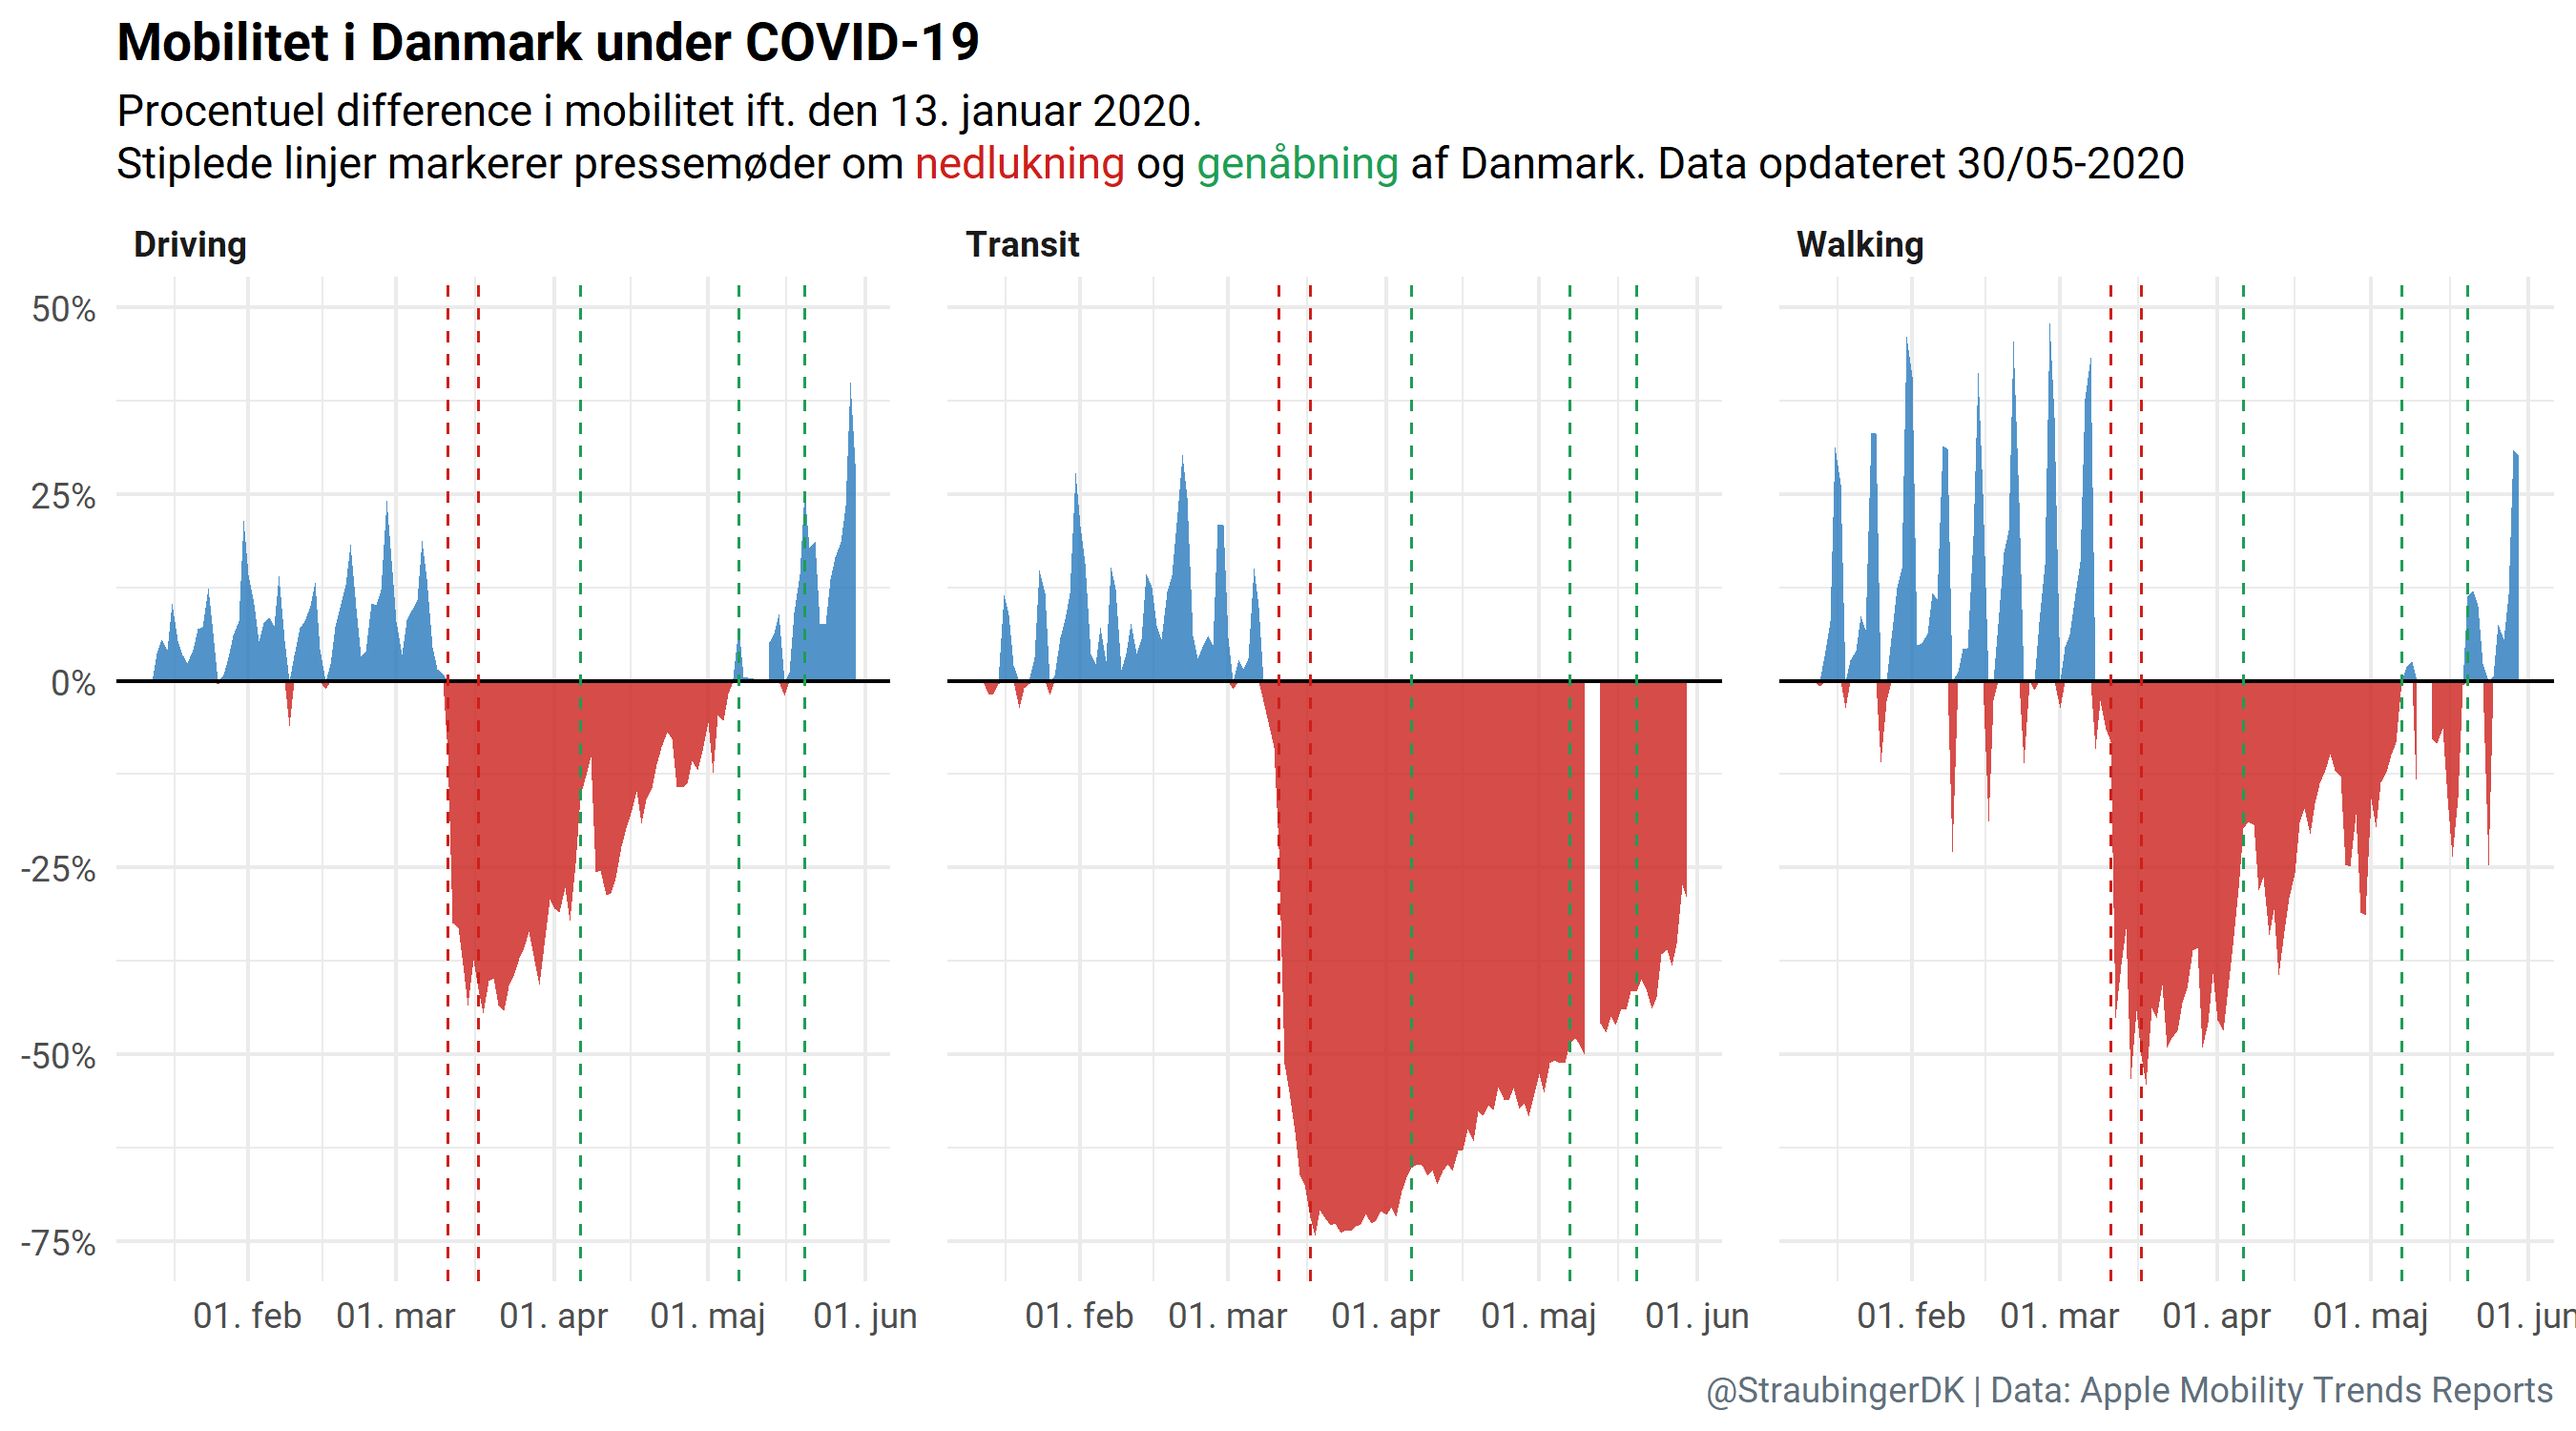
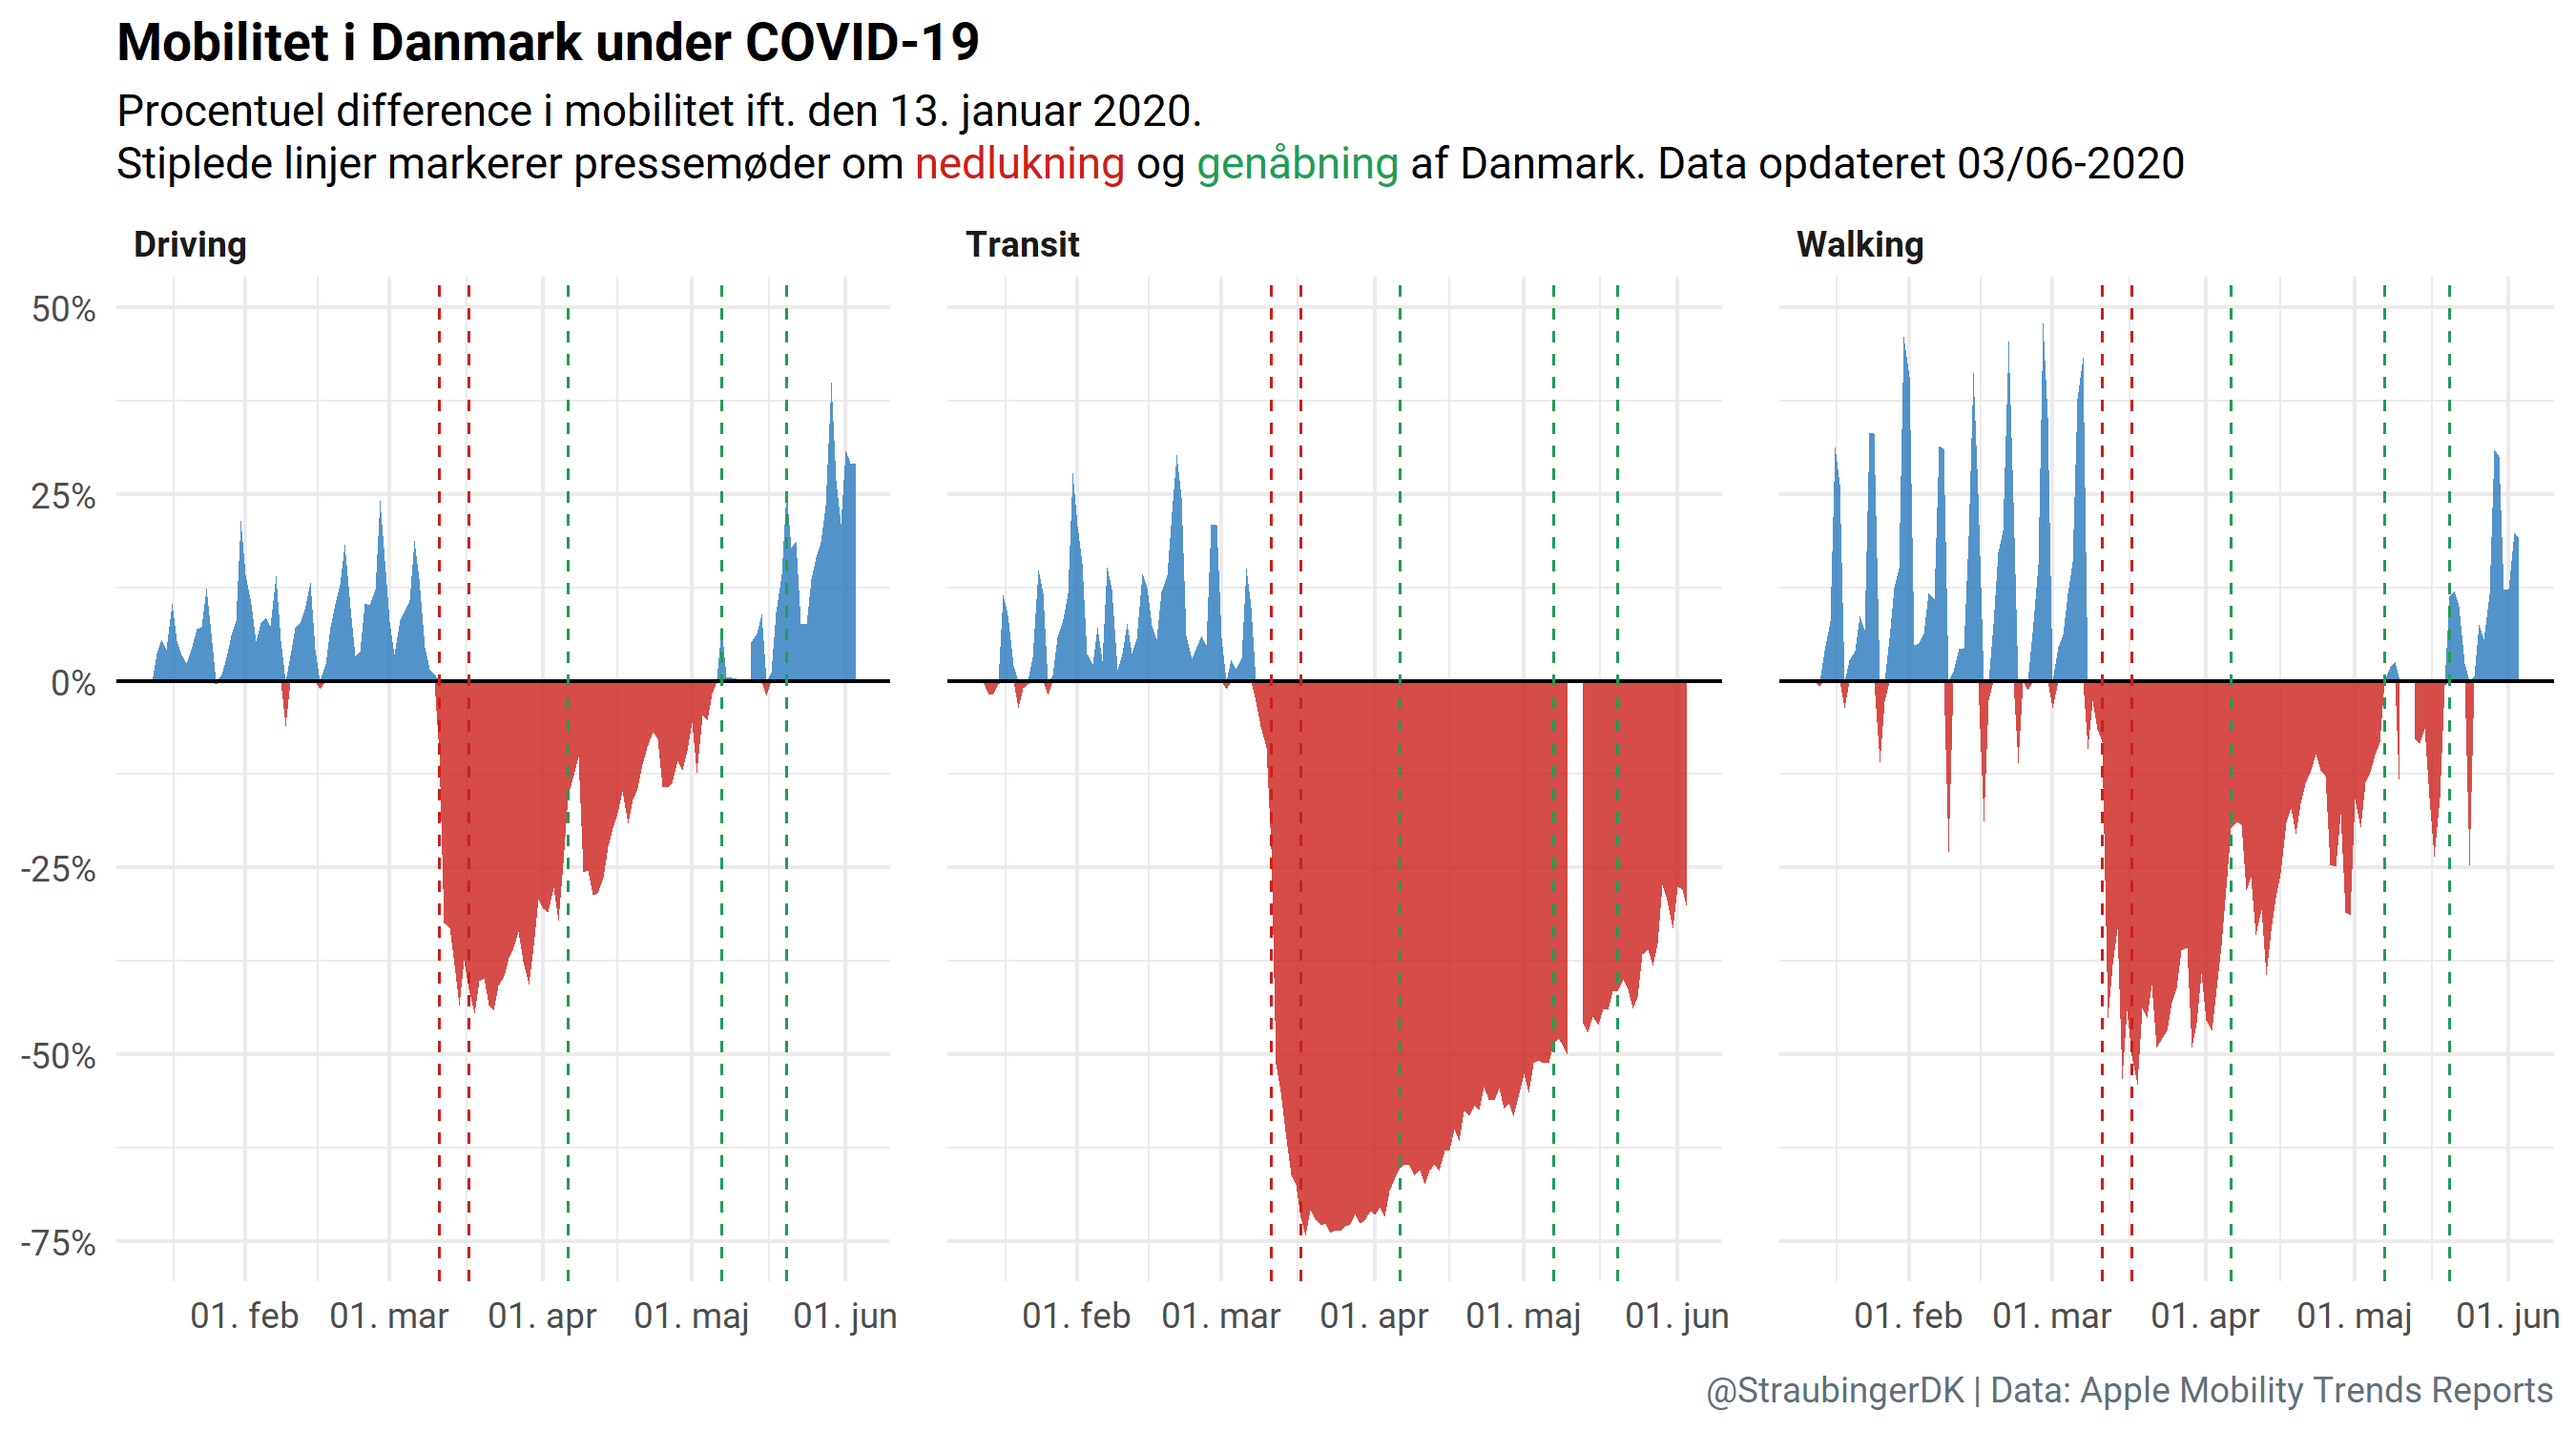
Update corona mobility

diff --git a/public/index.html b/public/index.html
@@ -1160,7 +1160,7 @@
       
       
       <a href="/project/2020-04-30_corona_mobility/" >
-        <img src="/project/2020-04-30_corona_mobility/featured_hu3664da3d4ed8e1d04c8bc4069167d320_92106_540x0_resize_lanczos_2.png" alt="">
+        <img src="/project/2020-04-30_corona_mobility/featured_hubae2ac43c92ba056fa657a4bc07962df_89357_540x0_resize_lanczos_2.png" alt="">
       </a>
       
     </div>
